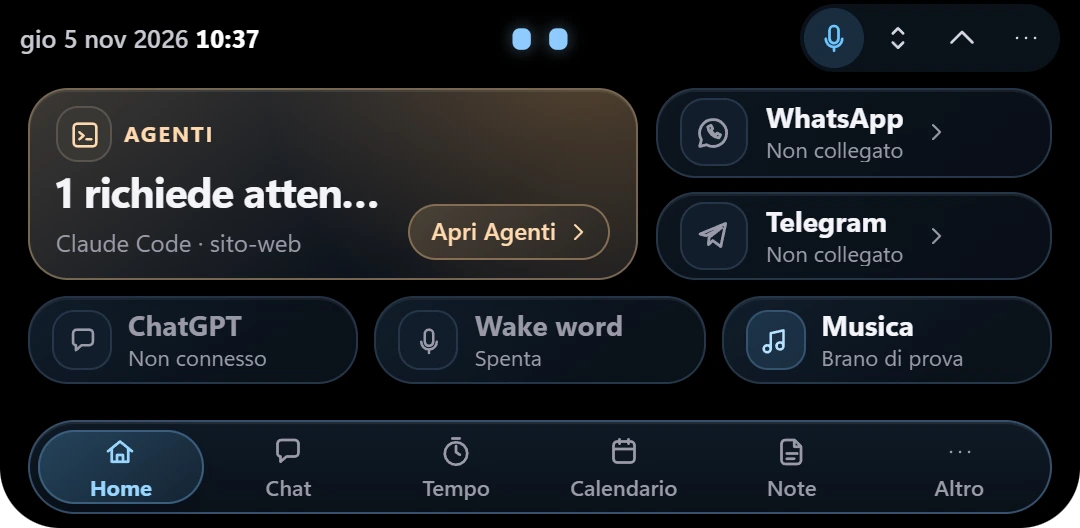
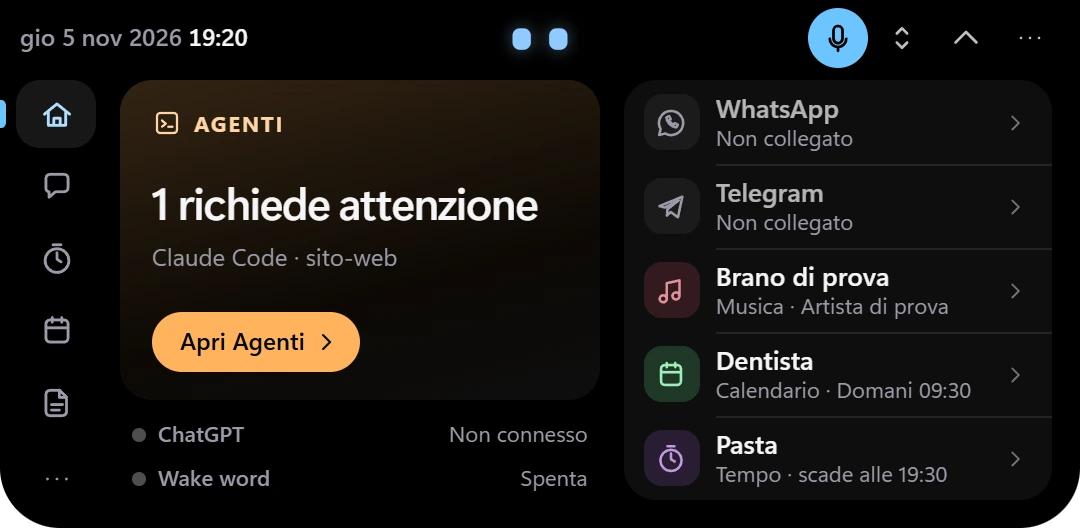
docs: README e schermate della 0.1.3 (Premium Design V5.1, schermate native aggiornate)

diff --git a/README.md b/README.md
@@ -28,7 +28,7 @@
 </p>
 
 <p align="center">
-  <img src="docs/assets/screenshots/02-home.webp" alt="The Dynamic panel: assistant card, messaging, quick links and the navigation bar" width="540">
+  <img src="docs/assets/screenshots/02-home.webp" alt="The Dynamic panel: the Now card, an at-a-glance list and the side navigation rail" width="540">
 </p>
 
 > Dynamic is a personal project for Windows. This page hosts the **installers** and the update feed; the source code is private.
@@ -51,18 +51,19 @@ Every image is a capture of the **real app**, taken in a throw-away profile with
 | ![Chat with action cards](docs/assets/screenshots/04-chat-actions.webp)<br>**Chat and actions** — «metti un timer», «ricordami domani alle 18…»: local commands answer with a result card | ![Confirmation card](docs/assets/screenshots/05-actions-confirm.webp)<br>**Confirmation** — anything destructive shows a preview and waits for your yes or no |
 | ![Calendar, month grid](docs/assets/screenshots/06-calendar-month.webp)<br>**Calendar** — expand the island and a full month grid appears, with the day's agenda below | ![Notes](docs/assets/screenshots/08-notes.webp)<br>**Notes** — local, autosaved, searchable, pinnable |
 | ![Time](docs/assets/screenshots/10-tempo.webp)<br>**Time** — timers, alarms and reminders in one place | ![Music](docs/assets/screenshots/11-music.webp)<br>**Music** — cover, timeline, transport and volume of the player you pick *(a stand-in player here)* |
-| ![AI agents](docs/assets/screenshots/13-agents.webp)<br>**Agents** — your Claude Code and Codex sessions at a glance; *Apri* brings the terminal to the front | ![Update available](docs/assets/screenshots/15-update.webp)<br>**Updates** — a red dot, one click, a verified signature |
+| ![AI agents](docs/assets/screenshots/13-agents.webp)<br>**Agents** — your Claude Code and Codex sessions at a glance; *Apri* brings the terminal to the front | ![Settings, About page](docs/assets/screenshots/15-settings-about.webp)<br>**Settings** — one consistent layout (label, switch, explanation); ordinary, sensitive and advanced options are grouped; updates live under *Informazioni* |
 
 <p align="center">
   <img src="docs/assets/screenshots/03-home-expanded.webp" alt="Home, expanded vertically" width="320">
   &nbsp;&nbsp;
   <img src="docs/assets/screenshots/07-calendar-agenda.webp" alt="Calendar agenda in the normal panel" width="540">
 </p>
-<p align="center"><sub>One button grows the island vertically · the same calendar as a compact agenda</sub></p>
+<p align="center"><sub>One button grows the island vertically and the page uses the whole height · the same calendar as a compact agenda</sub></p>
 
 ## What it does
 
 - 🏝 **A real Dynamic Island** — a borderless pill docked to the top edge that morphs between compact, listening, chat, panel and settings. Drag it down and it detaches into a floating capsule; drag it back and it docks again. Three visibility modes, multi-monitor aware, and it steps aside when a fullscreen app takes the screen.
+- ✨ **Premium design (V5 / 5.1)** — tonal surfaces instead of outlined boxes, a side navigation rail (icons in the normal window, labels when expanded), a *Now* card plus an at-a-glance list on Home, a real music-player layout, a focused timer with a ring and a month grid that fills the tall window. Same eleven themes, system fonts only, no extra animation or polling.
 - 🤖 **Three avatars, nine states** — the original *eyes*, a little *robot* or a *hitodama* (a floating spirit flame) show whether it is idle, listening, thinking, speaking, waiting for you or done. Eleven themes and static gradients (no animated background, no GPU load at rest).
 - ⚡ **Actions from chat or voice** — «metti un timer di 10 minuti», «ricordami domani alle 15 di chiamare Marco», «crea una nota: …», «che appuntamenti ho domani?», «pausa», «volume al 40», «apri il calendario», «com'è lo stato degli agenti?». Commands are understood by a **deterministic parser on your PC**, so the AI model can never trigger an action on its own, and your notes, calendar and timers are not sent to ChatGPT. Sensitive operations ask for confirmation first; per-category switches live in Settings → Azioni.
 - 📅 **Calendar** — connect Google Calendar or Outlook with their private iCal address (read-only: no account access). Agenda for today and the week, a month grid when expanded, recurring events, time zones, reminders before events. Creating or editing an event opens your browser pre-filled.
@@ -107,7 +108,7 @@ The v0.1.0 installer has no updater: install v0.1.1 or later once by hand.
 ## Honest status
 
 What I have verified on my own PC: the installer, the local speech, ChatGPT sign-in, the island and its docking, notes, calendar (with synthetic and public feeds),
-timers, music control with a test player, the agent monitor, WhatsApp notifications, and the update path 0.1.1 → 0.1.2 (in an isolated test product with the same updater and signing key).
+timers, music control with a test player, the agent monitor, WhatsApp notifications, and, for every release, the native layout of every page in all eleven themes, expanded and compact, docked and floating (an automated check on the real window). The update path 0.1.1 → 0.1.2 was exercised in an isolated test product with the same updater and signing key; 0.1.3 uses the same mechanism.
 What I have **not** verified: a clean second PC, a real Spotify / Google / Outlook account, spoken replies and wake-word accuracy in everyday noise, opening the browser for calendar events, a fullscreen game, a second monitor at other scaling, Telegram.
 Expect rough edges — this is a one-person project.
 
